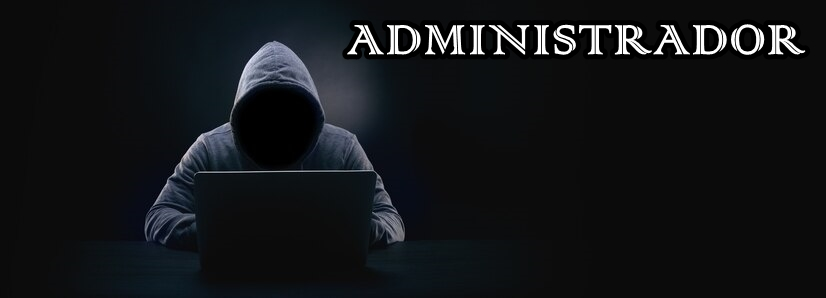
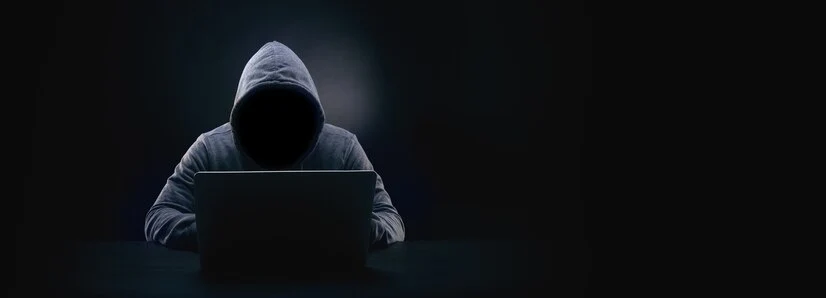
cambios

Changed region(s): [[0.3935, 0.0604, 0.9685, 0.2114]]

diff --git a/public/styles/panel-admin.css b/public/styles/panel-admin.css
@@ -1,3 +1,6 @@
+/* Importando la fuente "Cinzel" desde Google Fonts */
+@import url('https://fonts.googleapis.com/css2?family=Cinzel&display=swap');
+
 /* Estilos globales */
 body {
     font-family: 'Roboto', sans-serif;
@@ -21,6 +24,19 @@ body {
     box-shadow: 0 4px 8px rgba(0, 0, 0, 0.2);
     margin: 20px auto; /* Centrado */
     position: relative;
+}
+
+/* Posicionamos el texto "ADMINISTRADOR" en la esquina superior derecha */
+.admin-label {
+    position: absolute;
+    top: 10px;
+    right: 10px;
+    font-family: 'Cinzel', serif; /* Estilo gótico */
+    font-size: 60px; /* Tamaño de fuente */
+    font-weight: bold;
+    color: white; /* Puedes cambiar el color según el diseño */
+    padding: 5px 10px; /* Espaciado alrededor del texto */
+    border-radius: 5px; /* Bordes redondeados para el fondo */
 }
 
 .admin-banner img {

diff --git a/public/pages/panel-admin.html b/public/pages/panel-admin.html
@@ -30,6 +30,7 @@
         <div class="admin-banner">
             <img src="../assets/images/banner/banner-panel-admin.webp" alt="Administrador">
             <button class="logout-button">Cerrar Sesión</button>
+            <span class="admin-label">ADMINISTRADOR</span>
         </div>
         
         <footer>
